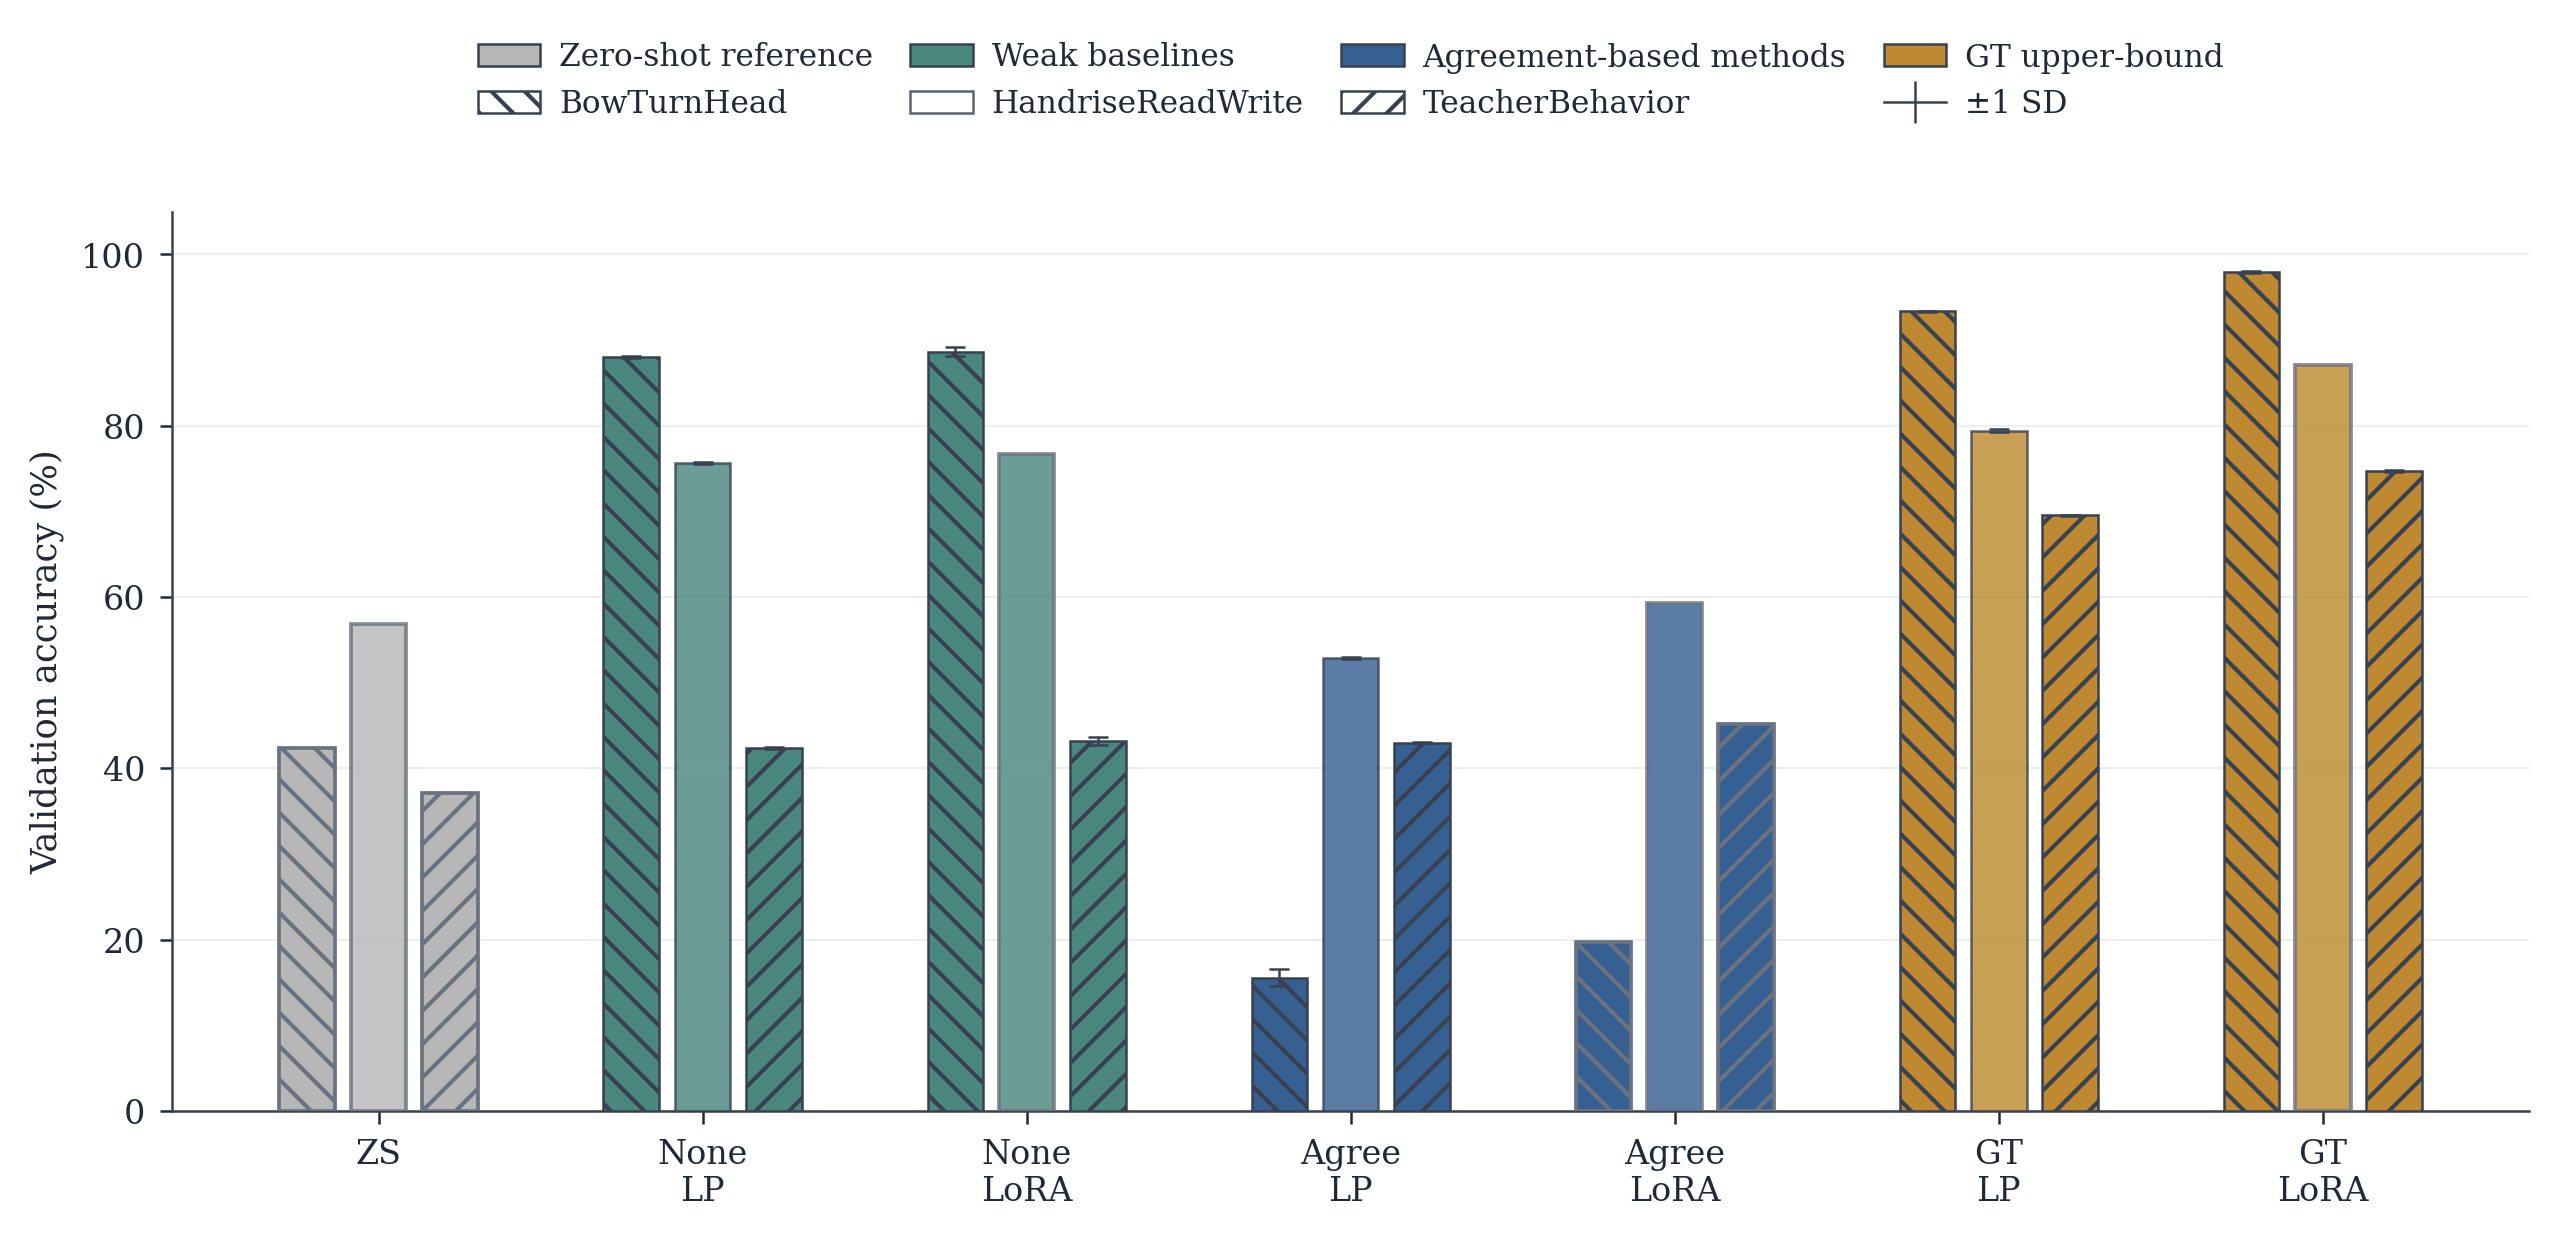
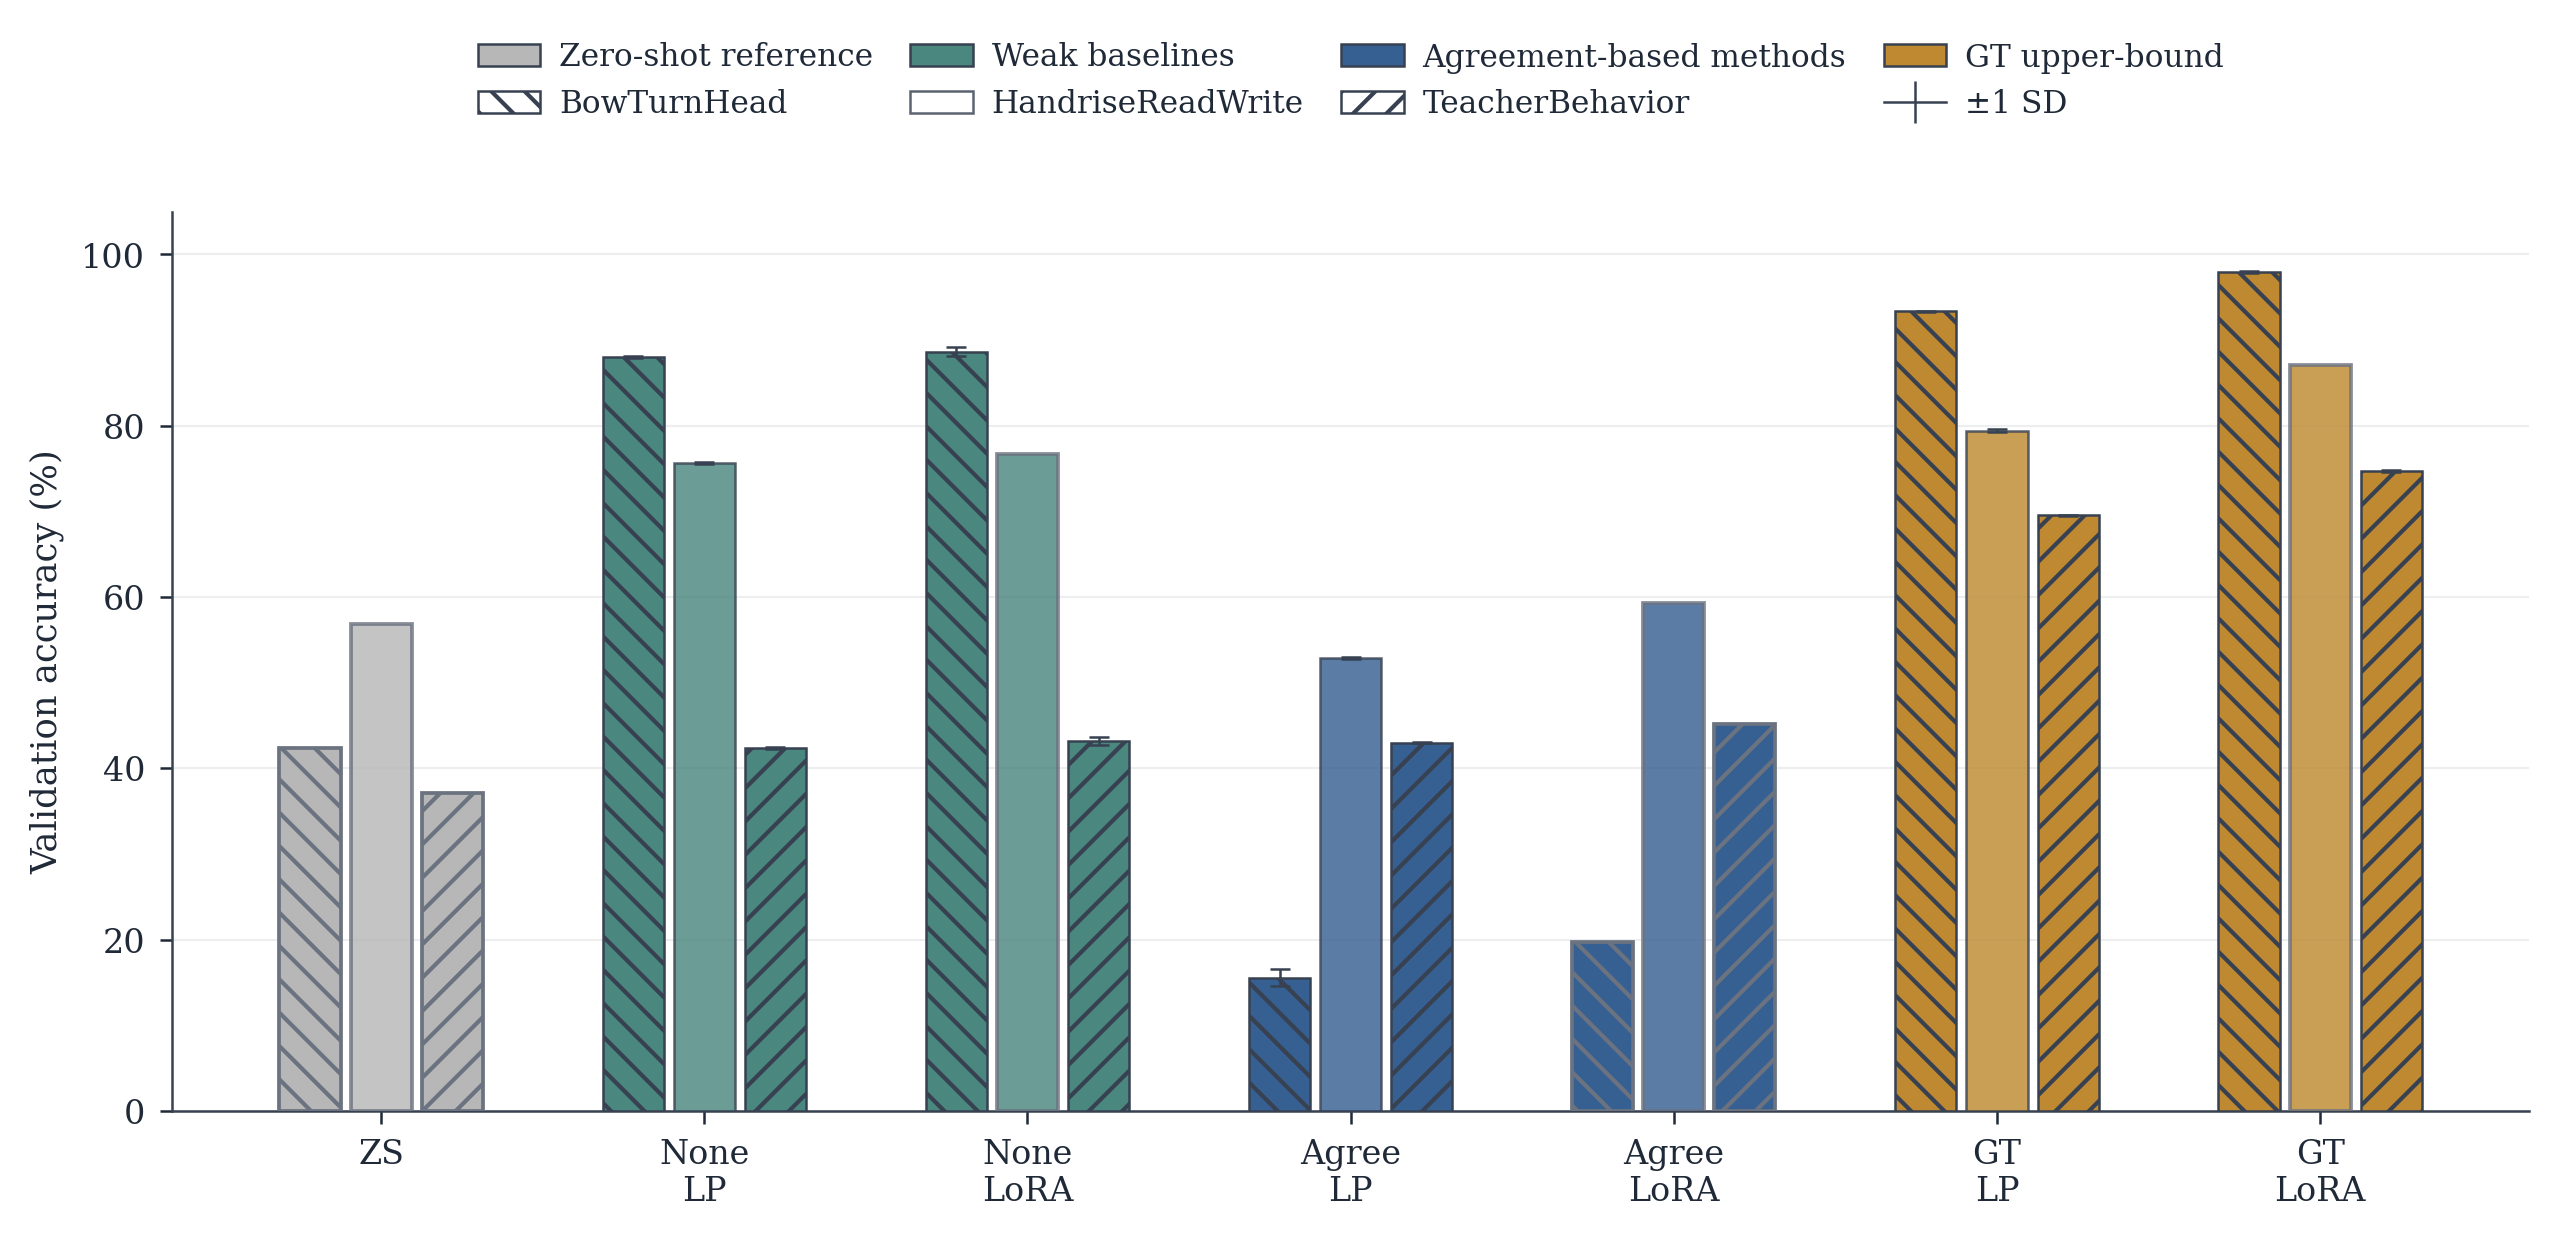
Bar width: 0.86 — balance between visible gap and bar weight

diff --git a/paper/generate_evidence_figures.py b/paper/generate_evidence_figures.py
@@ -246,7 +246,7 @@ def generate_overview_figure() -> None:
             yerr = entry["sd"] if entry["sd"] is not None else None
             error_kw = {"elinewidth": 0.6, "capsize": 2.5, "capthick": 0.6, "ecolor": EDGE_COLOR}
             bar_kwargs = {
-                "x": positions[idx], "height": entry["value"], "width": width * 0.78,
+                "x": positions[idx], "height": entry["value"], "width": width * 0.86,
                 "color": condition_color, "alpha": dataset_style["alpha"],
                 "hatch": dataset_style["hatch"], "edgecolor": EDGE_COLOR,
                 "linewidth": 0.6, "zorder": 3,